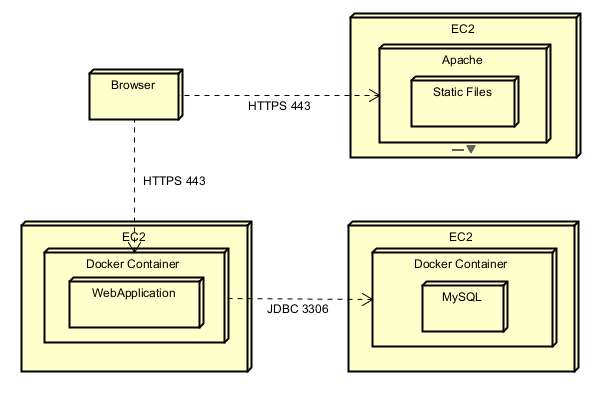
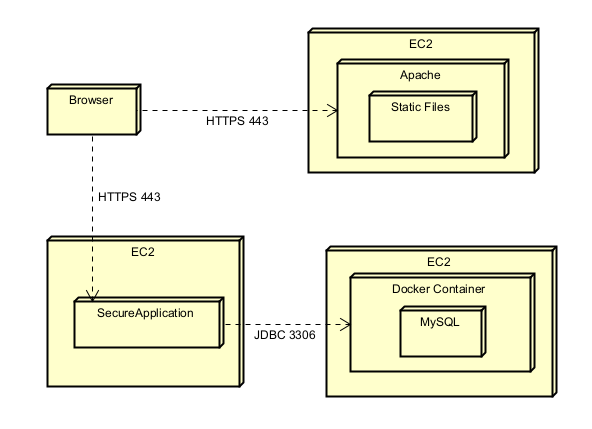
Update README.md

diff --git a/README.md b/README.md
@@ -36,13 +36,11 @@ src/
               PropertyRepository.java
             service/
               PropertyService.java
-            WebApplication.java                 # Clase principal
+            SecureWeb.java                      # Clase principal
     resources/
         images/                                 # Recursos para el archivo Readme
-        static/            
-            index.html
-            styles.css
-            script.js
+        keystore/            
+            keystore.p12
         application.properties
   test/
     java/
@@ -50,7 +48,6 @@ src/
         edu/
           eci/
             PropertyControllerTest.java         # Pruebas Unitarias
-Dockerfile
 pom.xml
 README.md
 ```
@@ -141,56 +138,105 @@ git --version
     ```
     mvn clean package
     ```
-
-7. Create the Docker image of the application:
-
-    ```
-    docker build --tag taller6arep .
-    ```
-
-8. For local tests [localhost:8080](http://localhost:8080/), create a Docker container of the application or run it using an IDE:
-
-    ```
-    docker run -d -p 8080:8080 --name taller6 taller6arep
-    ```
-
-   ![](src/main/resources/images/local-homepage.png)
-
-9. Login and create the image on Dockerhub, the push the image:
-
-    ```
-    docker login
-    docker tag taller6arep jcontreras2025/taller6arep:latest
-    docker push jcontreras2025/taller6arep
-    ```
-
-   ![](src/main/resources/images/docker-hub.png)
-
-10. Create a new default EC2 instance on AWS and add a new Security Rule on the Security Group of the instance.:
+7. Create a new default EC2 instance on AWS and add a new Security Rule on the Security Group of the instance.:
 
     ![](src/main/resources/images/security-app.png)
 
-11. Connect to the EC2 instance, install docker with these commands:
+8. Load the .jar file generated into the EC2 with the command:
 
     ```
-    sudo yum update -y
-    sudo yum install docker
+    scp -i "SecondKey.pem" eci-0.0.1-SNAPSHOT.jar ec2-user@ec2-44-201-240-221.compute-1.amazonaws.com:/home/ec2-user/
     ```
 
-12. Start the Docker service and run the container with the application using this command:
+9. Connect to the EC2 instance using ssh:
 
     ```
-    sudo service docker start
-    sudo docker run -d -p 8080:8080 --name taller6 jcontreras2025/taller6arep
+    ssh -i "tu-llave.pem" ec2-user@ec2-44-201-240-221.compute-1.amazonaws.com
     ```
 
-13. Copy the public DNS of the EC2 instance and paste it on a web browser using the port 42000, should look like this:
+10. Install java 17 and execute the .jar file using the following command:
 
     ```
-    http://ec2-44-204-74-94.compute-1.amazonaws.com:8080/
+    sudo yum intsall java-17
+    java -jar eci-0.0.1-SNAPSHOT.jar
     ```
 
-    ![](src/main/resources/images/homepage.png)
+    ![](src/main/resources/images/app-running.png)
+
+11. Create a last default EC2 instance on AWS and add a new Security Rule on the Security Group of the instance.
+
+   ![](src/main/resources/images/security-web.png)
+
+12. Get static domains using [Duck DNS](https://www.duckdns.org) for the EC2 applications, the one that will host Apache and the one that will host the Application, we need to use their public ip4 ips:
+
+    ![](src/main/resources/images/duckdns.png)
+
+13. Load the static files into the EC2 with the command:
+
+    ```
+    scp -i "SecondKey.pem" index.html ec2-user@ec2-44-201-240-221.compute-1.amazonaws.com:/home/ec2-user/
+    scp -i "SecondKey.pem" styles.css ec2-user@ec2-44-201-240-221.compute-1.amazonaws.com:/home/ec2-user/
+    scp -i "SecondKey.pem" script.js ec2-user@ec2-44-201-240-221.compute-1.amazonaws.com:/home/ec2-user/
+    ```
+
+14. Connect to the EC2 instance using ssh:
+
+    ```
+    ssh -i "tu-llave.pem" ec2-user@ec2-44-201-240-221.compute-1.amazonaws.com
+    ```
+
+15. Install Apache and start the service using the following command:
+
+    ```
+    sudo yum install httpd -y
+    sudo systemctl start httpd
+    sudo systemctl enable httpd
+    ```
+    
+16. Move the static files to the folder '/var/www/html' so Apache could load them, in the script.js the url should be using https protocol and the domain given by Duck DNS to the EC2 that hosts the application:
+
+    ```
+    sudo mv index.html /var/www/html
+    sudo mv styles.css /var/www/html
+    sudo mv script.js /var/www/html
+    ```
+
+17. Create a Virtual Host for Apache with these commands:
+
+    ```
+    sudo nano /etc/httpd/conf.d/tu-dominio.conf
+    ```
+
+18. Add this to the file:
+
+    ```
+    <VirtualHost *:443>
+        ServerName taller6arep.duckdns.org
+        ServerAlias www.taller6arep.duckdns.org
+        DocumentRoot /var/www/html
+        Redirect permanent / https://taller6arep.duckdns.org/
+        
+        <Directory /var/www/html>
+            AllowOverride All
+            Require all granted
+        </Directory>
+        
+        RewriteEngine on
+        RewriteCond %{SERVER_NAME} =taller6arep.duckdns.org [OR]
+        RewriteCond %{SERVER_NAME} =www.taller6arep.duckdns.org
+        RewriteRule ^ https://%{SERVER_NAME}%{REQUEST_URI} [END,NE,R=permanent]
+    </VirtualHost>
+    ```
+
+19. Restart Apache with the command:
+
+    ```
+    sudo systemctl enable httpd
+    ```
+
+## HTTPS Certificates Generation
+
+1. Once 
 
 
 ## Application Running
